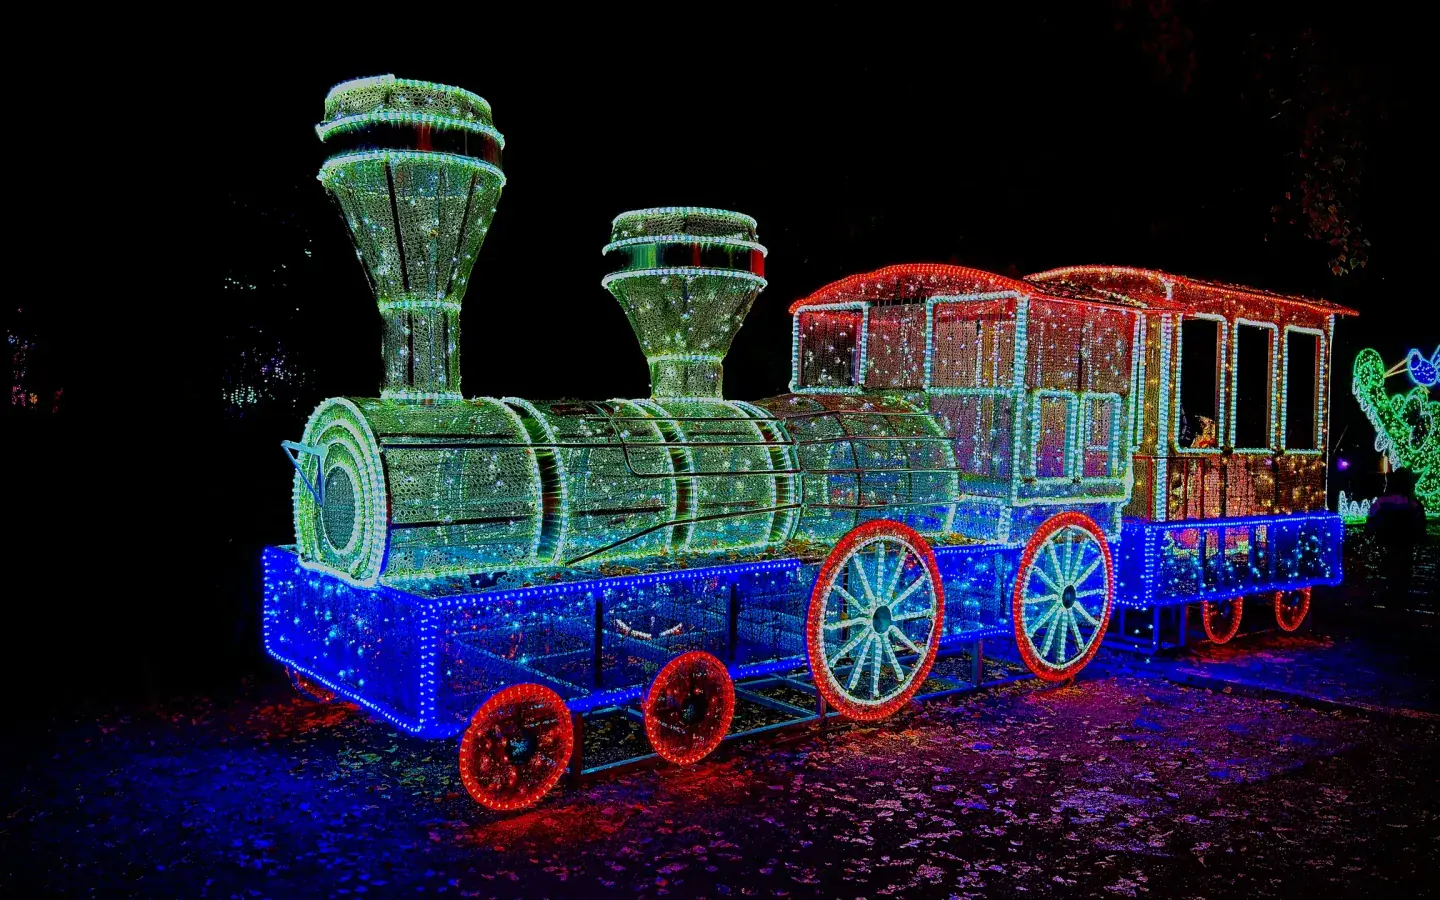
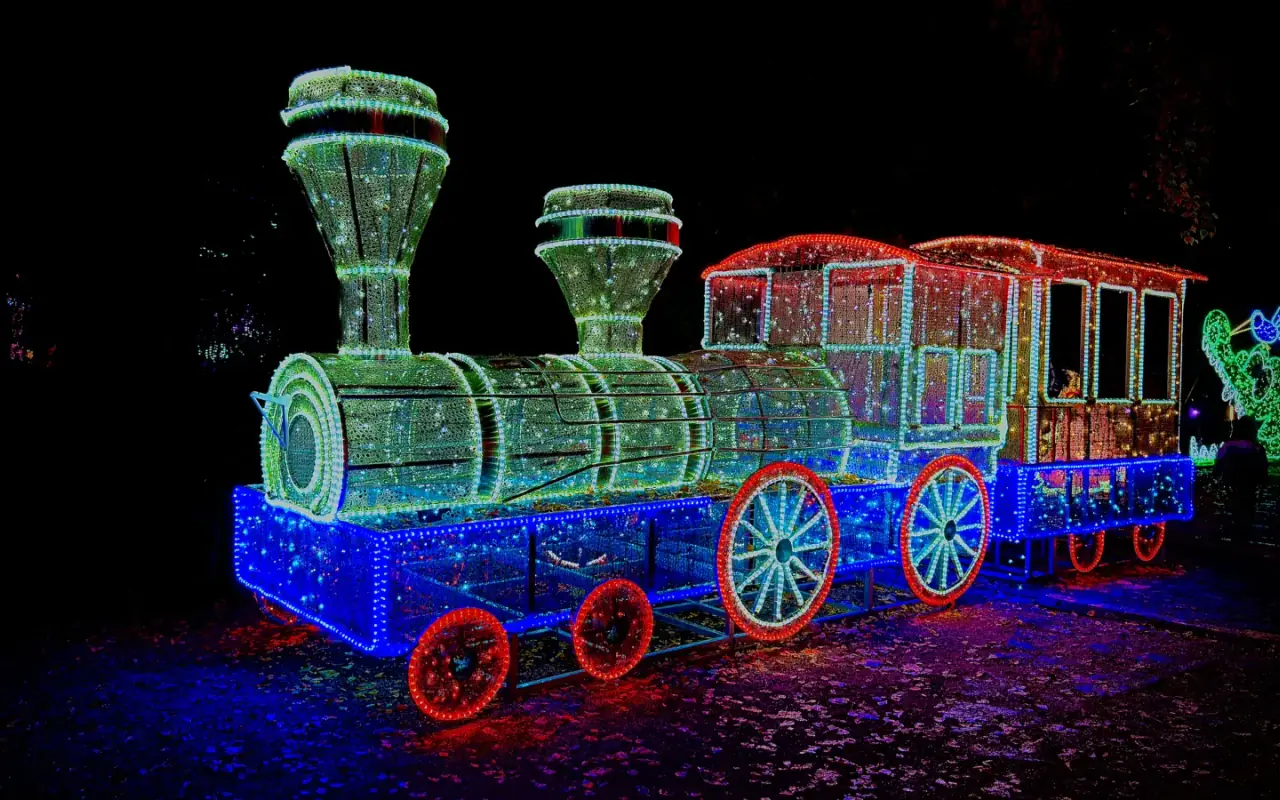
perf & a11y: responsive mobile hero preloading and standard markdown links in llms.txt for 3/3 Agentic Browsing

diff --git a/src/app/page.tsx b/src/app/page.tsx
@@ -64,20 +64,20 @@ export default function HomePage() {
           ═══════════════════════════════════════ */}
       <section className="relative min-h-[100svh] flex items-end overflow-hidden pb-20 sm:pb-28">
         {/* Full-bleed background image — brighter so photography is visible */}
-        <div className="absolute inset-0 z-0">
-          <Image
+        <picture className="absolute inset-0 z-0 w-full h-full">
+          <source media="(max-width: 768px)" srcSet="/images/hero-mobile.webp" type="image/webp" />
+          <source media="(min-width: 769px)" srcSet="/images/hero-desktop.webp" type="image/webp" />
+          <img
             src="/images/hero-desktop.webp"
             alt="TwoFrame Studio — Vizuális Tartalom Előadóknak és Márkáknak"
-            fill
-            priority
             fetchPriority="high"
-            sizes="100vw"
-            quality={75}
-            className="object-cover object-center"
+            loading="eager"
+            decoding="async"
+            className="w-full h-full object-cover object-center"
           />
-          {/* Gradient: heavy bottom blend into page, lighter top to keep image visible */}
-          <div className="absolute inset-0 bg-gradient-to-t from-[#08080a] via-[#08080a]/55 to-[#08080a]/15" />
-        </div>
+        </picture>
+        {/* Gradient: heavy bottom blend into page, lighter top to keep image visible */}
+        <div className="absolute inset-0 z-[1] bg-gradient-to-t from-[#08080a] via-[#08080a]/55 to-[#08080a]/15" />
 
         {/* Content — anchored to bottom */}
         <div className="relative z-10 w-full max-w-7xl mx-auto px-6 sm:px-8">

diff --git a/src/app/layout.tsx b/src/app/layout.tsx
@@ -100,8 +100,17 @@ export default function RootLayout({
         <link
           rel="preload"
           as="image"
+          href="/images/hero-mobile.webp"
+          type="image/webp"
+          media="(max-width: 768px)"
+          fetchPriority="high"
+        />
+        <link
+          rel="preload"
+          as="image"
           href="/images/hero-desktop.webp"
           type="image/webp"
+          media="(min-width: 769px)"
           fetchPriority="high"
         />
         <link rel="help" type="text/plain" href="/llms.txt" />
